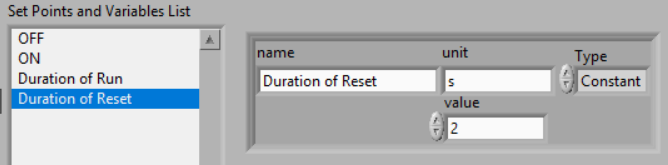
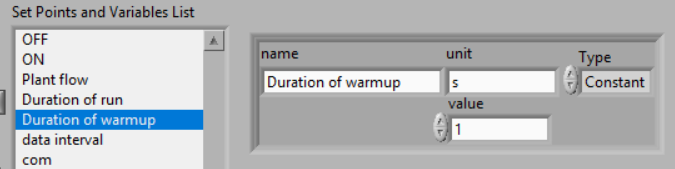
updates to the tutorial

diff --git a/ProCoDA/ProCoDA.rst b/ProCoDA/ProCoDA.rst
@@ -744,6 +744,11 @@ Tutorial
 
 .. |Tutorial_timers| image:: Images/Tutorial_timers.png
 .. |Tutorial_rule_reset| image:: Images/Tutorial_rule_reset.png
+.. |Tutorial_rule_end| image:: Images/Tutorial_rule_end.png
+.. |Tutorial_graph| image:: Images/Tutorial_graph.png
+.. |Tutorial_log_axis| image:: Images/Tutorial_log_axis.png
+
+
 
 
 
@@ -774,7 +779,7 @@ Experimental design
   Pump_water_rpm = (Q_water/Pump_water_per_rev).to(u.rpm)
   print('The water pump rpm is',Pump_water_rpm, 'for tubing size', Water_tubingcode)
 
-  # The coagulant dose range is 0.5 to 10 mg/L of aluminum.
+  # The coagulant dose range is 0.5 to 8 mg/L of aluminum.
   # We need the peristaltic pump pulses to be very fast compared with the residence time of the flocculator
   # Let's assume flocculator residence time 5 minutes (300 seconds)
   # Set max pulse time to be 10% of flocculator residence time (3 seconds)
@@ -785,13 +790,14 @@ Experimental design
   # The coagulant stock has 70 grams/L of aluminum
   C_PACl_super_stock = 70 * u.g/u.L
   # Define a set of coagulant dosages over the target range with a logarithmic scaling
-  dosis_n = 5
+  # the number of coagulant dosages to test. This doesn't include an extra "free" starting value of 0 to create a control that ProCoDA adds automatically
+  Max_x = 5
   dose_min = 0.5 * u.mg/u.L
-  dose_max = 10 * u.mg/u.L
-  C_PACl_dose = np.logspace(np.log10(1),np.log10(dose_max/dose_min),dosis_n)* dose_min
+  dose_max = 8 * u.mg/u.L
+  C_PACl_dose = np.logspace(np.log10(1),np.log10(dose_max/dose_min),Max_x)* dose_min
   print('The coagulant dosages in the geometric series are',C_PACl_dose.magnitude, C_PACl_dose.units)
   # Find the multiplication factor (the base) between each dose
-  base = (dose_max/dose_min)**(1/dosis_n)
+  base = (dose_max/dose_min)**(1/(Max_x-1))
   print('The base of the geometric series is',base)
   # The coefficient for our increment function is the minimum dose.
 
@@ -799,7 +805,7 @@ Experimental design
   # The smallest diameter tubing that we like to work with is 1.52 mm yellow-blue.
   Pump_coag_per_rev = ac.vol_per_rev_3_stop('yellow-blue')
   print('The coagulant tubing volume per turn is',Pump_coag_per_rev)
-  Coag_min_Q = (Pump_coag__per_rev*Pump_dosing_min_rpm).to(u.mL/u.s)
+  Coag_min_Q = (Pump_coag_per_rev*Pump_dosing_min_rpm).to(u.mL/u.s)
   print('The minimum coagulant flow is',Coag_min_Q)
 
   # now we can find the maximum coagulant stock concentration using the min dose and min flow rate
@@ -815,17 +821,19 @@ Experimental design
   Pump_coag_rpm = (Q_PACl_stock/Pump_coag_per_rev).to(u.rpm)
   print('The pump rpm for the different flow rates are',Pump_coag_rpm.magnitude, Pump_coag_rpm.units)
 
-The water flow rate is 0.5067 milliliter / second
-The volume of water per revolution is 2.8 milliliter / turn
-The water pump rpm is 10.86 revolutions_per_minute for tubing size 17
-The minimum dosing pump rpm is 0.3333 revolutions_per_minute
-The coagulant dosages in the geometric series are [ 0.5, 1.05737126, 2.23606798  4.72870805 10.] mg/L
-The base of the geometric series is 1.821 dimensionless
-The coagulant tubing volume per turn is 0.1488 milliliter / rev
-The minimum coagulant flow is 0.0008269 milliliter / second
-The PACl stock concentration is 300 milligram / liter
-The coagulant flow rate is [0.00084451 0.00178593 0.00377677 0.00798691 0.01689025] mL/s
-The pump rpm for the different flow rates are [0.34042406 0.71990923 1.52242266 3.21953195 6.80848112] revolutions_per_minute
+
+Below are the results from the calculations above.
+ * The water flow rate is 0.5067 milliliter / second
+ * The volume of water per revolution is 2.8 milliliter / turn
+ * The water pump rpm is 10.86 revolutions_per_minute for tubing size 17
+ * The minimum dosing pump rpm is 0.3333 revolutions_per_minute
+ * The coagulant dosages in the geometric series are [0.5 1.  2.  4.  8. ] milligram / liter
+ * The base of the geometric series is 2 dimensionless
+ * The coagulant tubing volume per turn is 0.1488 milliliter / rev
+ * The minimum coagulant flow is 0.0008269 milliliter / second
+ * The PACl stock concentration is 300 milligram / liter
+ * The coagulant flow rate is [0.00084451 0.00168902 0.00337805 0.0067561  0.0135122 ] mL/s
+ * The pump rpm for the different flow rates are [0.34042406 0.68084811 1.36169622 2.72339245 5.4467849 ] revolutions_per_minute
 
 Set up a timed cycle of two states (run and reset)
 --------------------------------------------------
@@ -834,8 +842,8 @@ Set up a timed cycle of two states (run and reset)
  #. Go to the Set Points tab
  #. Delete All Set Points to create a new clean method
  #. Create a new set point that is the total plant flow (water + coag) with a value of 0.5067 mL/s
- #. Create a new set point that is the duration of run in seconds with a value of 10
- #. Create a new set point that is the duration of warmup in seconds with a value of 2 |Tutorial_timers|
+ #. Create a new set point that is the duration of run in seconds with a value of 5
+ #. Create a new set point that is the duration of warmup in seconds with a value of 1 |Tutorial_timers|
  #. Select the Rules and Outputs tab
  #. Select the Rules tab
  #. Add State After and call it Run (this is in the state 1 position)
@@ -846,39 +854,76 @@ Set up a timed cycle of two states (run and reset)
 Set up two pumps
 ----------------
 
-Use the :ref:`heading_ProCoDA_Golander_Peristaltic_Pump` to guide you. When you are done it should look like this.
+Use the :ref:`heading_ProCoDA_Golander_Peristaltic_Pump` for an explanation of how the pumps are controlled. Use the table below as a guide. Go through the table below and add all of these set points. Note that when you load external code it always lists what the required inputs are at the bottom of the dialog box.
 
-.. _table_ProCoDA_pump_tubing:
 
-.. csv-table:: Pump tubing selection.
-    :header:  Set Point , unit , type, value
+.. _table_ProCoDA_tutorial_method:
+
+.. csv-table:: ProCoDA tutorial method to vary coagulant dose for a series of 6 experiments
+    :header:  Set Point , unit , type, value, notes
     :align: center
 
 
-      Plant flow, mL/s, constant, 0.5067
-      Duration of run, s, constant, 5
-      Duration of warmup, s, constant,1
-      data interval, s, constant,5
-      com, none, constant, ?
-      water pump ID, none, constant, 1
-      coag pump ID, none, constant, 2
-      on state, none, constant, 12
-      water volume per rev, mL/rev, constant, 2.8
-      coag volume per rev, mL/rev, constant, 0.1488
-      water flow, mL/s, variable, Plant flow - coag flow
-      coag flow, mL/s, variable, increment by factor rep
-      water pump control, rpm, variable, Golander pump
-      coag pump control, rpm, variable, Golander pump
-      state to increment, none, constant, 2 (reset state)
-      coefficient, mL/s, constant, 0.0008269 (min coag flow)
-      base, none, constant, 2.115
-      max x, none, constant, 4
-      reps, none, constant, 2
-      max cycles, none, constant, 12 (max x + 2) times 2 reps
-      cycles, none, variable, count states
+      Plant flow, mL/s, constant, 0.5067, total flow of water
+      Duration of run, s, constant, 5, perhaps steady state operation for data collection
+      Duration of warmup, s, constant, 1, time required for startup (start with a small value for testing!)
+      data interval, s, constant, 5, used to set data interval for turbidimeters
+      com, none, constant, ?, different for each workstation
+      water pump ID, none, constant, 2, change this to match your pumps
+      coag pump ID, none, constant, 1, change this to match your pumps
+      on state, none, constant, 12, on for both states 1 and 2 (run and warmup)
+      water volume per rev, mL/rev, constant, 2.8, based on #17 tubing
+      coag volume per rev, mL/rev, constant, 0.1488, based on yellow-blue 3 stop tubing
+      water flow, mL/s, variable, subtract function, Plant flow - coag flow
+      coag flow, mL/s, variable, increment by factor rep, will systematically vary coag flow!
+      water pump control, rpm, variable, Golander pump, controls the water pump
+      coag pump control, rpm, variable, Golander pump, controls the coagulant pump
+      state to increment, none, constant, 2 (reset state), increment x whenever it enters the run state
+      coefficient, mL/s, constant, 0.0008269 (min coag flow), sets the first nonzero value of the series
+      base, none, constant, 2, base that is raised to the power of x
+      max x, none, constant, 5, number of nonzero coagulant dosages
+      reps, none, constant, 2, number of times to repeat each test
+      max x + 1, none, variable, add, add max x + ON
+      max cycles, none, variable, multiply, max x +1 times reps
+      cycles, none, variable, count states, counts number of times the run state is called
 
-use the increment function to vary the coagulant dose between experiments
-control a Golander peristaltic pump
+
+The ProCoDA method file for this setup is available for you to try. Use the |Open_Method| on the ProCoDA configuration tab (select the left open folder icon) to load the `method file for the tutorial <https://github.com/monroews/EnvEngLabTextbook/raw/master/ProCoDA/methods/Tutorial_method.pcm>`_.
+
+Set the end condition for the experiment
+----------------------------------------
+
+We want ProCoDA to turn everything off after each of the coagulant dosages is tested twice. We can do that by adding a second exit condition for the Warmup state that exits to the OFF state when the total number of times that the Warmup state should execute has been reached.
+
+ #. Open the Rules and Outputs tab
+ #. Select the Warmup state
+ #. Add a new rule to exit to OFF |Tutorial_rule_end|
+
+Test your automation sequence
+-----------------------------
+
+ #. Close the rule editor
+ #. go to the Process Operation tab
+ #. Change the mode of operation to Automatic
+ #. Select the Warmup state
+ #. Go to the Graphs tab
+ #. Select *water pump control (rpm)*, *water pump control (rpm)*, and *cycles* (use the control key as you select multiple entries)
+ #. Set which axis (left or right) each plot is graphed on by right clicking on the legend where the color of the plot is shown and select y-scale and then select left or right. Use the left axis for the pump rpm and the right axis for the cycles.
+ #. Change the left y axis to log scale |Tutorial_log_axis| because we are using a geometric series of flow rates
+ #. Return to the Process Operation tab
+ #. Right click on Warmup in the operator selected state to tell ProCoDA to return to that state. (Note that the operator selected state is NOT necessarily the state that ProCoDA is in! It is the state that the operator told ProCoDA to start in!)
+ #. Return to the Graphs tab
+ #. Select Clear graphs
+ #. See if you can create this graph
+|Tutorial_graph|
+
+Play
+----
+
+ #. Set up data logging using the method that also creates a state log
+ #. Run your experiment again
+ #. Open the data file and the state file to see what ProCoDA is recording
+ #. Add a pressure sensor or a temperature sensor
 
 
 
